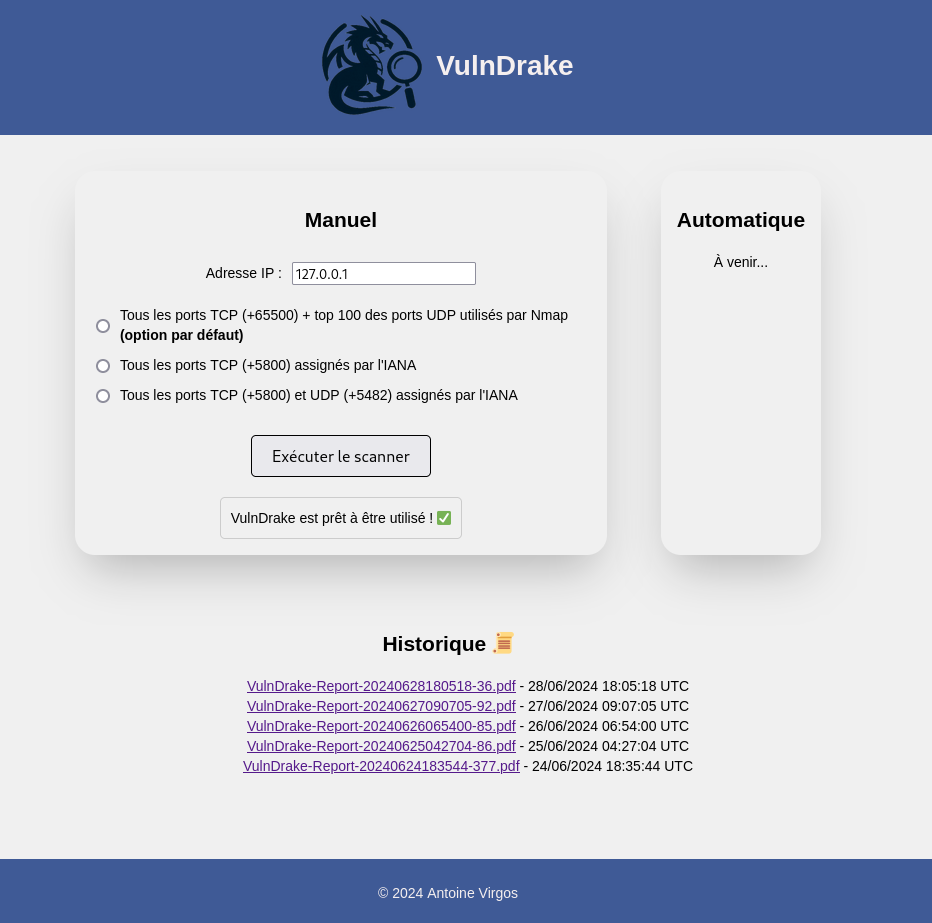
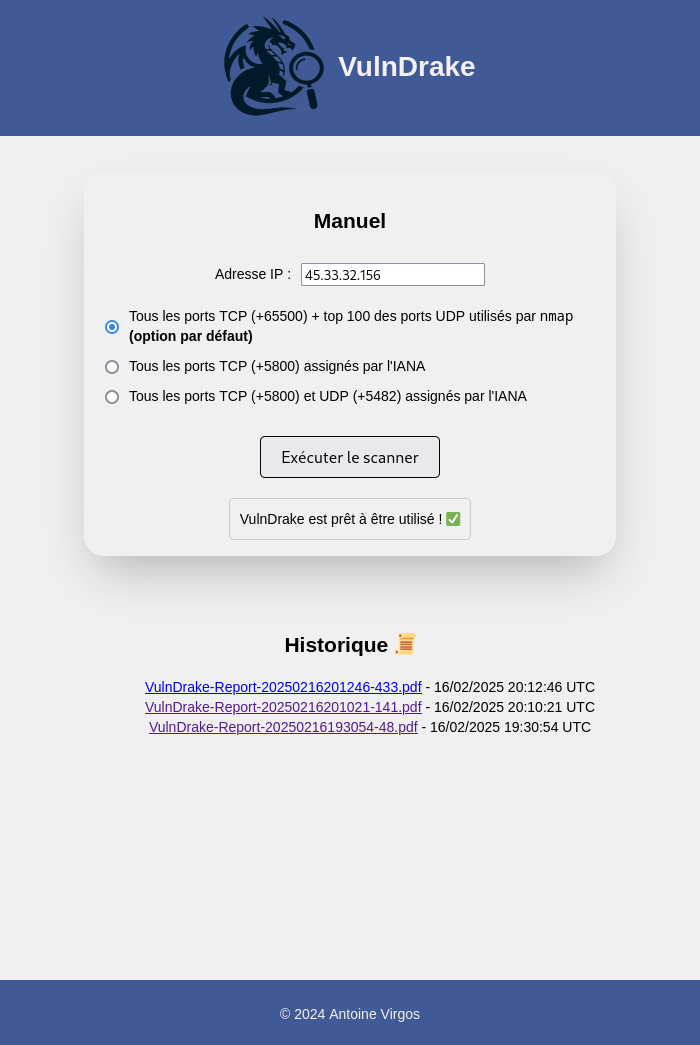
fix: remove 'Automatic' mode + docs: update README.md

diff --git a/app/vue/manual.php b/app/vue/manual.php
@@ -8,7 +8,7 @@
 
     <div class="radio-group">
         <input type="radio" id="port-list1" name="port-list" value="730ef368-57e2-11e1-a90f-406186ea4fc5">
-        <label for="port-list1">Tous les ports TCP (+65500) + top 100 des ports UDP utilisés par Nmap <span class="default-option">(option par défaut)</span></label>
+        <label for="port-list1">Tous les ports TCP (+65500) + top 100 des ports UDP utilisés par <code>nmap</code> <span class="default-option">(option par défaut)</span></label>
     </div>
     <div class="radio-group">
         <input type="radio" id="port-list2" name="port-list" value="33d0cd82-57c6-11e1-8ed1-406186ea4fc5">

diff --git a/app/index.php b/app/index.php
@@ -26,9 +26,6 @@
         <div class="manual">
             <?php include "./vue/manual.php"; ?>
         </div>
-        <div class="automatic">
-            <?php include "./vue/automatic.php"; ?>
-        </div>
     </section>
     <div id="history">
         <?php include "./vue/history.php"; ?>

diff --git a/README.md b/README.md
@@ -6,8 +6,10 @@ VulnDrake is a web-based vulnerability scanning and management application that 
 
 ## Features
 
+ℹ **Configuration used : `d21f6c81-2b88-4ac1-b7b4-a2a9f2ad4663`** (*Basic configuration template with a minimum set of NVTs required for a scan. Version 20200827.*). See [the list of configurations available](https://github.com/greenbone/gvm-tools/blob/main/tests/scripts/get_scan_configs.xml).
+
 - **Manual Scan**
-    - Scan options :
+    - Scan options (ports) :
         - All TCP ports (+65500) + top 100 UDP ports used by `nmap` **(default option)**.
         - All TCP ports (+5800) assigned by [IANA](https://www.iana.org).
         - All TCP (+5800) and UDP (+5482) ports assigned by [IANA](https://www.iana.org).
@@ -32,6 +34,10 @@ Deploy VulnDrake :
 ```bash
 sudo docker compose up -d
 ```
+
+Access to VulnDrake :
+
+https://localhost
 
 ## Configuration
 
